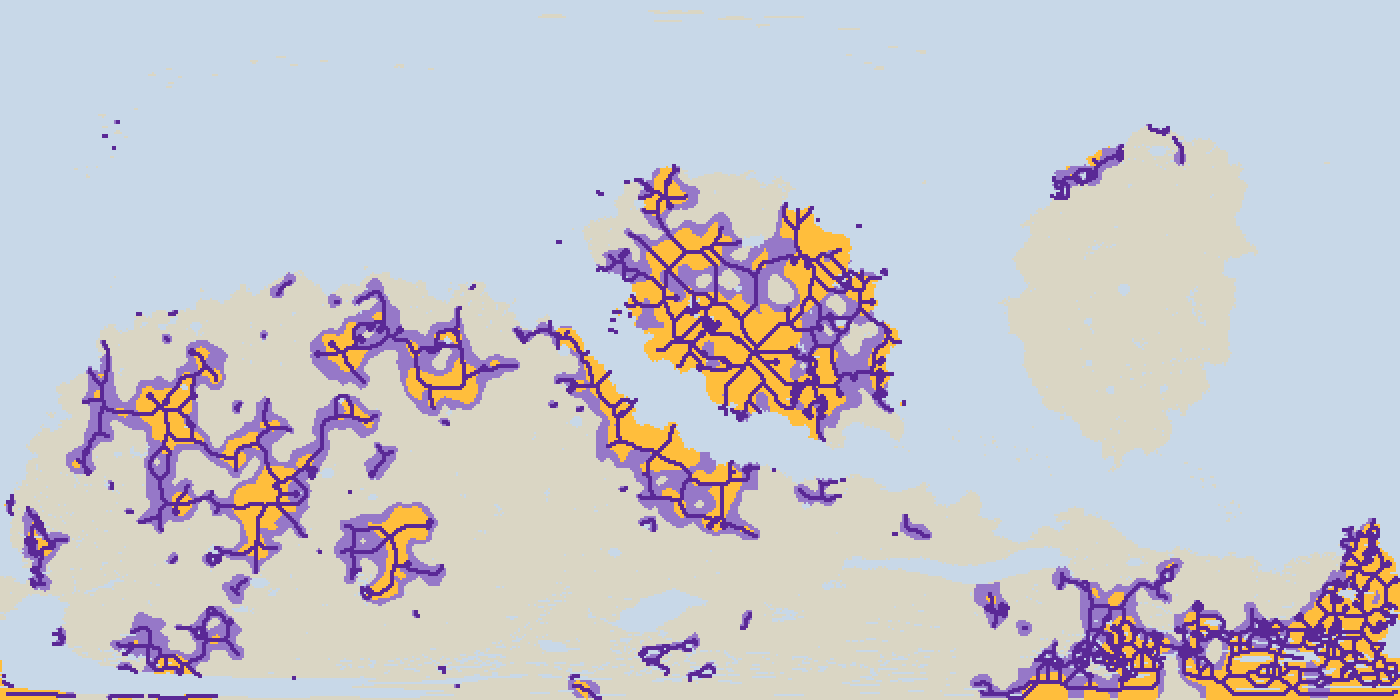
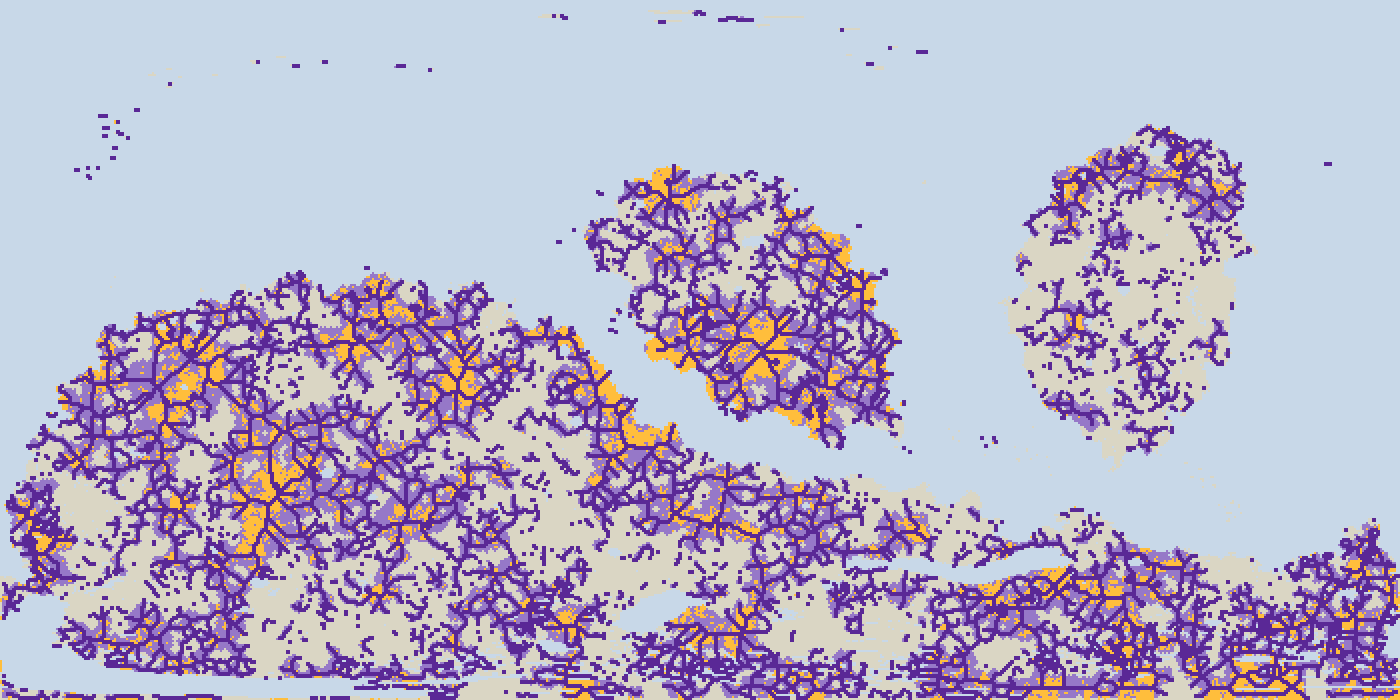
魔力だまり・地脈の標準設定をラグから推論して決定
Claude-Session: https://claude.ai/code/session_01NNF75WtqSrNc5QxPaYtfZJ

diff --git a/docs/apps/fantasy-war/mapstyle/tools/mana_vein2.py b/docs/apps/fantasy-war/mapstyle/tools/mana_vein2.py
@@ -1,6 +1,6 @@
 # 魔力だまり+地脈 第2版(ユーザー指示 11-22 08:02・08:03): 魔力だまりと地脈は同じガウス揺らぎの場から出る。世界は巨大なので、大小いくつもの波を重ねて複雑にする。
 # 魔力だまり=場の薄い所の面(大きさ・濃さを持つ)。地脈=薄い所をつないで流れる細い網(薄い所の中心線)。数は薄さのしきい値で決まる(間隔の足切りは使わない)。
-# 使い方: python3 -I mana_vein2.py <世界dir(world-data.png)> <出力の前置き> [種] [--oct=5] [--pool=1.0] [--vein=0.5] [--decay=0.72(小さい波の強さの割合)] [--base=0.06(最大の波の大きさ=横幅の何割)]
+# 使い方: python3 -I mana_vein2.py <世界dir(world-data.png)> <出力の前置き> [種] [--oct=7] [--pool=1.0] [--vein=0.0](以上すべて標準値。11-22 の実測と、ハブの記録から決めた) [--decay=0.72(小さい波の強さの割合)] [--base=0.06(最大の波の大きさ=横幅の何割)]
 import sys, json, numpy as np, cv2
 from PIL import Image
 from scipy import ndimage as ndi
@@ -13,7 +13,7 @@ def field(h, w, seed, base, octs, decay=0.72):
         f += (decay ** k) * b / (b.std() + 1e-9)
     return f
 
-def build(wd, seed=1, octs=5, pool_t=1.0, vein_t=0.5, min_px=3, decay=0.72, base=0.06):
+def build(wd, seed=1, octs=7, pool_t=1.0, vein_t=0.0, min_px=3, decay=0.9, base=0.03):
     H0, W0 = wd.shape[:2]; land0 = (wd[..., 1] > 0) & (wd[..., 0] >= 20)
     s = 2; h, w = H0 // s, W0 // s
     land = cv2.resize(land0.astype(np.uint8), (w, h), interpolation=cv2.INTER_NEAREST).astype(bool)
@@ -42,7 +42,7 @@ if __name__ == '__main__':
     args = [a for a in sys.argv[1:] if not a.startswith('--')]
     opt = {a.split('=')[0]: a.split('=')[1] for a in sys.argv[1:] if a.startswith('--') and '=' in a}
     wd = np.array(Image.open(args[0] + '/world-data.png')); seed = int(args[2]) if len(args) > 2 else 1
-    d, sk, V, P, land, Z = build(wd, seed, int(opt.get('--oct', 5)), float(opt.get('--pool', 1.0)), float(opt.get('--vein', 0.5)), decay=float(opt.get('--decay', 0.72)), base=float(opt.get('--base', 0.06)))
+    d, sk, V, P, land, Z = build(wd, seed, int(opt.get('--oct', 7)), float(opt.get('--pool', 1.0)), float(opt.get('--vein', 0.0)), decay=float(opt.get('--decay', 0.9)), base=float(opt.get('--base', 0.03)))
     json.dump(dict(seed=seed, size=[wd.shape[1], wd.shape[0]], pools=d['pools'], vein=d['vein'], note='座標は世界データの画素(2:1や正方形の世界でも同じ)。area=画素数。depth=濃さ(標準偏差の何倍か)'), open(args[1] + '_mana2.json', 'w'), ensure_ascii=False)
     base = np.where(land[..., None], np.array([218, 214, 196], np.uint8), np.array([200, 216, 232], np.uint8)).astype(np.uint8)
     base[V] = (150, 120, 200); base[P & land] = (255, 190, 60); sk2 = cv2.dilate(sk.astype(np.uint8), np.ones((2, 2), np.uint8)).astype(bool); base[sk2] = (90, 40, 150)

diff --git a/docs/apps/sekai-hex/design/STATE.md b/docs/apps/sekai-hex/design/STATE.md
@@ -178,6 +178,7 @@
 - 【指示・質問 11-22 07:01 ユーザー】地脈の絵はどう見せるか未定なので消して。それに世界中でこれだけ(地脈)と言うのは少な過ぎない?→ 実施: 3D表示(world3d.html)から地脈の線と点を外した(データ mapstyle/vein/*_veins.json は残す)。回答(私の見立て・未確認): 少ない。現状は世界あたり結び目19〜35・つながり17〜26(地脈の初期値: 結び目の最小間隔=半分の解像度で18画素、濃さのしきい値z=-0.3、どちらも私が決めた値でユーザーの指定ではない)。ユーザーの元の依頼は『ガウス揺らぎで微細な線』『線はつながりを作るように』で、微細な網とは程遠い。数は間隔としきい値で変えられる。限界: 適切な数はユーザーの決定が要る(巣・大都会・浮島との関係もある)。次の一手: 目安の数を決める。
 - 【確定 11-22 08:02・08:03 ユーザー】魔力だまりと地脈はそれぞれ意味を成す。魔力だまりはガウス揺らぎなのだから地脈と連動しているはず。世界は巨大で、魔力だまりも地脈ももっと複雑にしないとシミュレーターに取り入れられない。→ 私の読み: 同じ場から出る(結び目=魔力だまり、つながり=地脈。既存の道具もそうだが、点+間隔の足切りで少なかった)。→ 試作(3Dには出さない): 道具 mapstyle/tools/mana_vein2.py。波を5段重ね(大→小)、魔力だまり=場の薄い所の面(大きさ・濃さを持つ)、地脈=薄い所の中心線の網、数は薄さのしきい値だけで決まる。実測(球体seed32・場の種132・半分の解像度): 魔力だまり 濃さ0.7→65個・1.0→58個・1.3→51個・1.6→40個(旧: 結び目35)、地脈の網は74本・全長約1.2万画素(旧: つながり26)。画像・データ mapstyle/vein/sp32_mana2.png・.json。見立て(目視・未確認): 網は複雑で枝分かれするが、濃い所が一部に固まり(ある大陸にはほぼ無く、別の所に密集)、世界じゅうに散らばっていない。大きな波が強すぎるため(大小の波の強さの比が私の初期値)。限界: 1世界・1種・目視のみ/網は画素のまま(線のデータ化・強さの階層は未)/3D未搭載/『巨大な世界』の目安の数は未決。次の一手: 数と散らばり(大きな波と小さな波の強さの比)の目標を決める。
 - 【指摘 11-22 08:22 ユーザー】(数と散らばりは)ガウス揺らぎの設定の仕方次第じゃないの?→ 回答: その通り。ユーザーに数の目標を聞く前に、設定(小さい波の強さの割合・最大の波の大きさ・波の段数)を変えて実測した(mana_vein2.py に --decay・--base を追加)。実測(球体seed32の世界・薄さのしきい値は固定): [割合0.72・大きさ0.06・5段]=だまり58〜63・地脈網74〜113・魔力だまりに近い陸 約40%/[0.85・0.06・6段]=158〜193・239〜270・約60%/[0.95・0.06・7段]=464〜520・675〜711・82%/[0.85・0.03・6段]=359〜426・513〜585・約78%/[0.95・0.03・7段]=725〜785・1110〜1155・約93%/[0.95・0.015・8段]=1087〜1199・1423〜1548・約99%(種132と7の2通り)。大陸ごとの数は大陸が大きいほど多く、小さい波を強くするほど小さい大陸にも散らばる(例 割合0.95: 大陸別 416/21/71)。限界: 1つの世界・2つの種のみ/半分の解像度の画素で数えた(段数が多いと画素ノイズに近い小さな塊が混ざる可能性)/見た目の確認は代表3つのみ。次の一手: 代表の絵を見て、どの複雑さにするか選ぶ。
+- 【指摘 11-22 08:25 ユーザー】『どれを選ぶか』は質問がおかしい。AIとして、ハブに作ったラグを元に、何をどう設定したらベストになるかを推論して提案するべき。→ 推論(私の提案・未確認。根拠はラグ): ①国は人間12国+湖の連邦+商業都市国家=約14(カード10)、魔力だまりは魔物の巣で、水辺のものは駆逐されて大都会になる(カード6G 11-21)=国ごとに巣と大都会が要る→全ての大陸・国に散らばること(大陸の偏り・近い陸の割合が要)②巣=スタンピードの発生源・征服の対象で、戦域(約1.4km)の層で一万人が動く規模(カード2・9)=国あたり数十は必要→世界で数百〜約800(14国×約45)③地脈は『つながりを作る』(ユーザー指示 11-21)=大陸ごとにほぼ1つの網につながるべき④世界は周長8192km・地球の縮尺でなくてよい(11-22 03:50)で、大小の波の重なりは自然に大小の魔力だまりを出す。→ 設定を総当たり(36通り×世界2×種2。物差し: だまり数・魔力だまりに近い陸の割合・大陸ごとの偏り・地脈の網の数・大陸ごと最大網の割合)し、標準を決めた: 小さい波の強さの割合0.9・最大の波の大きさ0.03(横幅の3%)・7段・魔力だまりのしきい値1.0・地脈のしきい値0.0(ゆるめ)=だまり約660・近い陸89%・大陸の偏り0.78(1が理想)・網22本・大陸ごと最大網65%。mana_vein2.py の標準値に設定済み。画像 mapstyle/vein/sp32_mana2.png。限界: 数の根拠(14国×約45)は私の推論でユーザーの数値指定ではない/網はまだ大陸あたり1つにはつながらない(最大網は6〜7割)/世界2つ・種2つのみ/3D未搭載。次の一手(私が進める): 切れた地脈を、最も通りやすい道でつないで大陸ごとに1つの網にする。
 
 ## カード15 制作プロトコル(超基礎概念)と、このプロジェクトの作業フロー【確定(ユーザー指示 11-21)+案】
 - 適用範囲: このプロジェクト(ファンタジー世界戦争=世界ハニカム、docs/apps/fantasy-war と sekai-hex)だけ。他のアプリには適用しない。

diff --git a/docs/apps/sekai-hex/design/cards/c06g.md b/docs/apps/sekai-hex/design/cards/c06g.md
@@ -73,3 +73,4 @@
 - 【指示・質問 11-22 07:01 ユーザー】地脈の絵はどう見せるか未定なので消して。それに世界中でこれだけ(地脈)と言うのは少な過ぎない?→ 実施: 3D表示(world3d.html)から地脈の線と点を外した(データ mapstyle/vein/*_veins.json は残す)。回答(私の見立て・未確認): 少ない。現状は世界あたり結び目19〜35・つながり17〜26(地脈の初期値: 結び目の最小間隔=半分の解像度で18画素、濃さのしきい値z=-0.3、どちらも私が決めた値でユーザーの指定ではない)。ユーザーの元の依頼は『ガウス揺らぎで微細な線』『線はつながりを作るように』で、微細な網とは程遠い。数は間隔としきい値で変えられる。限界: 適切な数はユーザーの決定が要る(巣・大都会・浮島との関係もある)。次の一手: 目安の数を決める。
 - 【確定 11-22 08:02・08:03 ユーザー】魔力だまりと地脈はそれぞれ意味を成す。魔力だまりはガウス揺らぎなのだから地脈と連動しているはず。世界は巨大で、魔力だまりも地脈ももっと複雑にしないとシミュレーターに取り入れられない。→ 私の読み: 同じ場から出る(結び目=魔力だまり、つながり=地脈。既存の道具もそうだが、点+間隔の足切りで少なかった)。→ 試作(3Dには出さない): 道具 mapstyle/tools/mana_vein2.py。波を5段重ね(大→小)、魔力だまり=場の薄い所の面(大きさ・濃さを持つ)、地脈=薄い所の中心線の網、数は薄さのしきい値だけで決まる。実測(球体seed32・場の種132・半分の解像度): 魔力だまり 濃さ0.7→65個・1.0→58個・1.3→51個・1.6→40個(旧: 結び目35)、地脈の網は74本・全長約1.2万画素(旧: つながり26)。画像・データ mapstyle/vein/sp32_mana2.png・.json。見立て(目視・未確認): 網は複雑で枝分かれするが、濃い所が一部に固まり(ある大陸にはほぼ無く、別の所に密集)、世界じゅうに散らばっていない。大きな波が強すぎるため(大小の波の強さの比が私の初期値)。限界: 1世界・1種・目視のみ/網は画素のまま(線のデータ化・強さの階層は未)/3D未搭載/『巨大な世界』の目安の数は未決。次の一手: 数と散らばり(大きな波と小さな波の強さの比)の目標を決める。
 - 【指摘 11-22 08:22 ユーザー】(数と散らばりは)ガウス揺らぎの設定の仕方次第じゃないの?→ 回答: その通り。ユーザーに数の目標を聞く前に、設定(小さい波の強さの割合・最大の波の大きさ・波の段数)を変えて実測した(mana_vein2.py に --decay・--base を追加)。実測(球体seed32の世界・薄さのしきい値は固定): [割合0.72・大きさ0.06・5段]=だまり58〜63・地脈網74〜113・魔力だまりに近い陸 約40%/[0.85・0.06・6段]=158〜193・239〜270・約60%/[0.95・0.06・7段]=464〜520・675〜711・82%/[0.85・0.03・6段]=359〜426・513〜585・約78%/[0.95・0.03・7段]=725〜785・1110〜1155・約93%/[0.95・0.015・8段]=1087〜1199・1423〜1548・約99%(種132と7の2通り)。大陸ごとの数は大陸が大きいほど多く、小さい波を強くするほど小さい大陸にも散らばる(例 割合0.95: 大陸別 416/21/71)。限界: 1つの世界・2つの種のみ/半分の解像度の画素で数えた(段数が多いと画素ノイズに近い小さな塊が混ざる可能性)/見た目の確認は代表3つのみ。次の一手: 代表の絵を見て、どの複雑さにするか選ぶ。
+- 【指摘 11-22 08:25 ユーザー】『どれを選ぶか』は質問がおかしい。AIとして、ハブに作ったラグを元に、何をどう設定したらベストになるかを推論して提案するべき。→ 推論(私の提案・未確認。根拠はラグ): ①国は人間12国+湖の連邦+商業都市国家=約14(カード10)、魔力だまりは魔物の巣で、水辺のものは駆逐されて大都会になる(カード6G 11-21)=国ごとに巣と大都会が要る→全ての大陸・国に散らばること(大陸の偏り・近い陸の割合が要)②巣=スタンピードの発生源・征服の対象で、戦域(約1.4km)の層で一万人が動く規模(カード2・9)=国あたり数十は必要→世界で数百〜約800(14国×約45)③地脈は『つながりを作る』(ユーザー指示 11-21)=大陸ごとにほぼ1つの網につながるべき④世界は周長8192km・地球の縮尺でなくてよい(11-22 03:50)で、大小の波の重なりは自然に大小の魔力だまりを出す。→ 設定を総当たり(36通り×世界2×種2。物差し: だまり数・魔力だまりに近い陸の割合・大陸ごとの偏り・地脈の網の数・大陸ごと最大網の割合)し、標準を決めた: 小さい波の強さの割合0.9・最大の波の大きさ0.03(横幅の3%)・7段・魔力だまりのしきい値1.0・地脈のしきい値0.0(ゆるめ)=だまり約660・近い陸89%・大陸の偏り0.78(1が理想)・網22本・大陸ごと最大網65%。mana_vein2.py の標準値に設定済み。画像 mapstyle/vein/sp32_mana2.png。限界: 数の根拠(14国×約45)は私の推論でユーザーの数値指定ではない/網はまだ大陸あたり1つにはつながらない(最大網は6〜7割)/世界2つ・種2つのみ/3D未搭載。次の一手(私が進める): 切れた地脈を、最も通りやすい道でつないで大陸ごとに1つの網にする。
